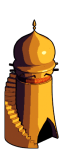
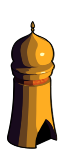
add change phot when upgrade level

diff --git a/nezal-ar/public/base-defender/js/game/displays/building_display.js b/nezal-ar/public/base-defender/js/game/displays/building_display.js
@@ -5,12 +5,22 @@ var BuildingDisplay = Class.create(Display, {
     this.noOfXTiles = Math.ceil(this.xdim / Map.tileIsoLength)
     this.noOfYTiles = Math.ceil(this.ydim / Map.tileIsoLength)
     this.owner = owner
-    this.img = Loader.images.buildings[this.owner.name+'.png'];
+    /* Check for level Img for the building & its hover */
+    for(var i = this.owner.level; i>0; i--)
+    {
+      this.img = Loader.images.buildings[this.owner.name + "_" + i +'.png'];
+      this.outlineImg = Loader.images.buildingOutlines[this.owner.name + "_outline_" + i +  ".png"];
+      if(this.img)  
+        break;
+    }
+    /* Use the default image if level not found */
+    if(!this.img) this.img = Loader.images.buildings[this.owner.name+'.png'];
+    if(!this.outlineImg) this.outlineImg = Loader.images.buildingOutlines[this.owner.name+"_outline.png"];
+
     var buildImgName = this.noOfXTiles+"x"+this.noOfYTiles
     this.invalidImg =  Loader.images.buildingModes[buildImgName+"_invalid.png"];
     this.baseImg = Loader.images.buildingModes[buildImgName+'_base.png'];
     this.shadowImg = Loader.images.buildingShadows[this.owner.name+"_shadow.png"];
-    this.outlineImg = Loader.images.buildingOutlines[this.owner.name+"_outline.png"];
     this.movingImg = Loader.images.buildingMoving[this.owner.name+"_moving.png"];
     this.mouseoverImg = Loader.images.icons[this.owner.name+"_icon.png"];
     this.transparentImg = Loader.images.buildingModes['transparent.png'];

diff --git a/nezal-ar/public/base-defender/js/game/game.js b/nezal-ar/public/base-defender/js/game/game.js
@@ -109,9 +109,11 @@ var Game = Class.create({
 		buildingImages.push("lumbermill_saw.png");
 		buildingImages.push("townhall_door.png");
 		buildingImages.push("wedge_face.png");
+		buildingImages.push("storage_2.png");
 		var buildingOutlineImages = BuildingMode.prototype.buildings.collect(function(building){
       return building + "_outline.png";
     });
+		buildingOutlineImages.push("storage_outline_2.png");
 
 		var buildingShadowImages = BuildingMode.prototype.buildings.collect(function(building){
       return building + "_shadow.png";
